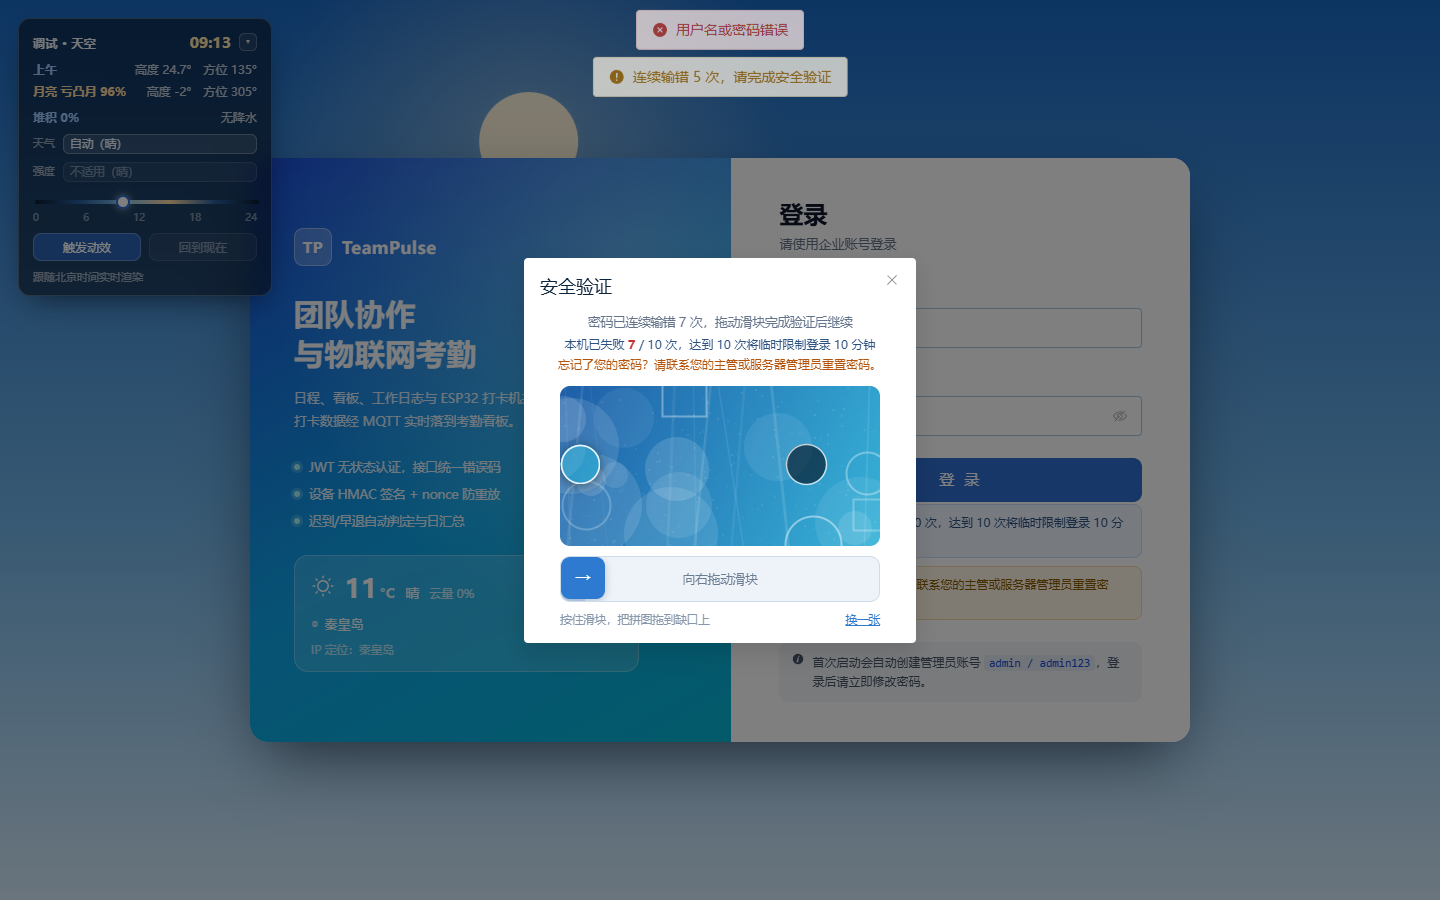
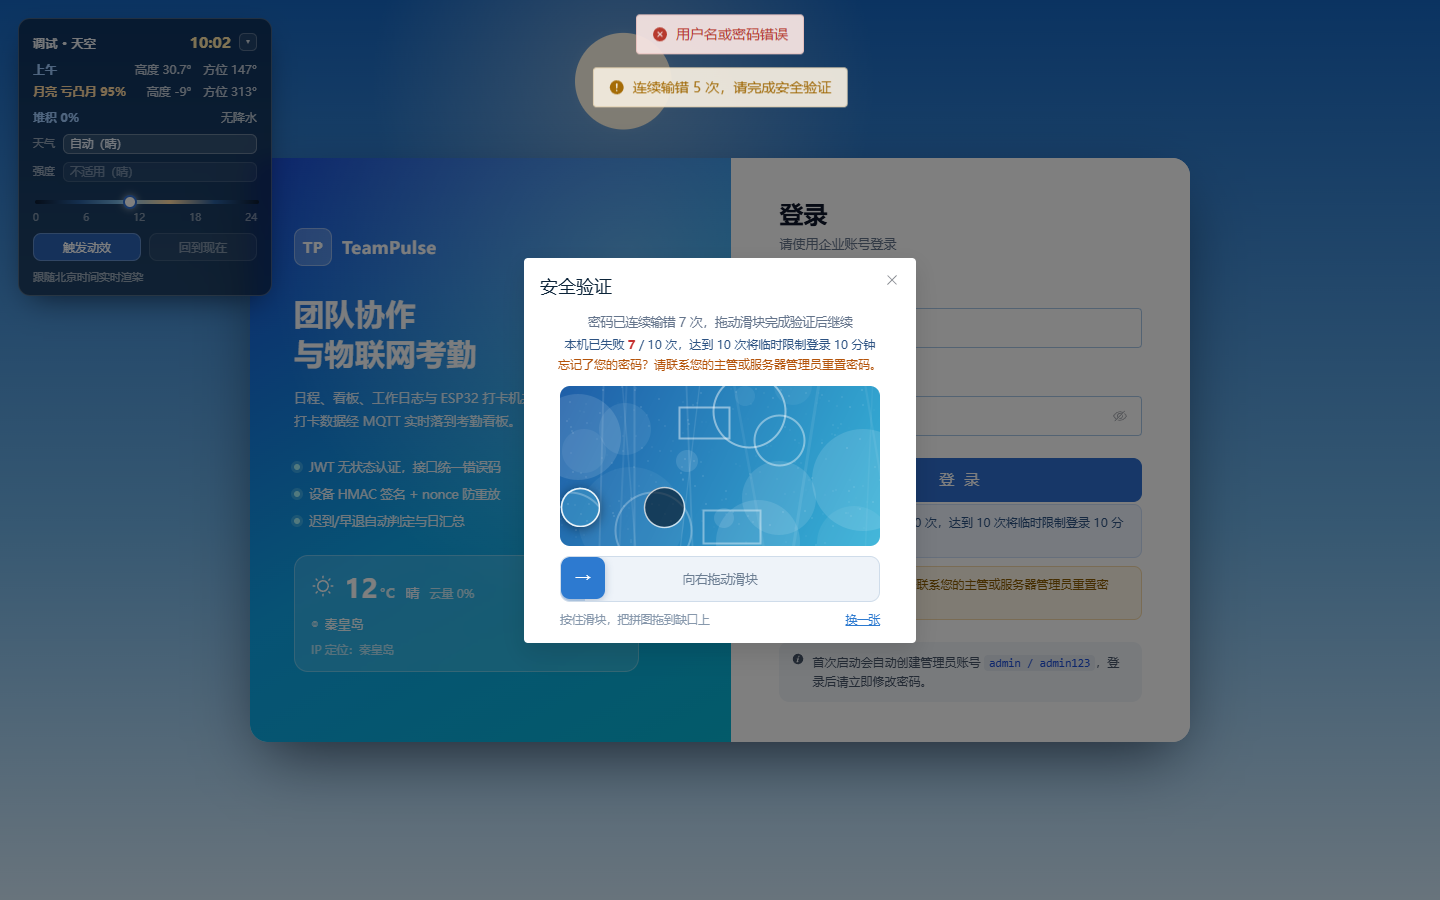
fix(login-security): 空表单点击只在前端计数，服务端永远是 0/10
## 现象
用户报「一直都是 0/10」。查服务器日志发现：
nginx 里只有 **1 次** `POST /api/v1/auth/login`，却有多次 `GET login-guard?username=`；
后端也没有任何「登录失败」记录。

说明用户点的是**空表单**：前端在 `formRef.validate()` 阶段就拦下了，
请求到不了认证接口 → 服务端计数始终为 0 → 界面显示 `本机连续失败 0 / 10 次` 永远不动。

## 修法
新增 `POST /api/v1/public/login-guard/attempt`：
- 前端在表单校验失败时调用它，把「这次点击」登记为一次失败（只影响调用方自己的 IP）
- 返回最新的防护状态，前端直接用来刷新 N/10
- 做了**同源校验**（有 Origin 时必须与 Host 一致），避免被第三方页面借用户的浏览器刷黑名单
- 也顺带解决「表单没填也算一次尝试」的语义一致性问题

## 实测（线上，什么都不填，直接点登录）
```
第 1~4 次：1/10 … 4/10   弹窗=N
第 5 次： 5/10           弹窗=Y
第 6~9 次：6/10 … 9/10   弹窗=Y
第 10 次：进度行消失 → 拉黑 10 分钟，按钮禁用
```
nginx 日志可见每次点击对应一条 `POST /api/v1/public/login-guard/attempt` 200；
后端日志 `IP 触发拉黑: 计数=10 冷却=10分钟`。

## 已知取舍
这个接口是公开的（无法要求登录态），通过 CSRF 让某人自己的 IP 被限制 10 分钟是可能的；
影响面仅限「调用方自己的 IP、10 分钟」，且同源校验挡住了普通的跨站触发。
真正的多实例/严格场景应把计数放 Redis 并加风控。

diff --git a/frontend/src/views/Login.vue b/frontend/src/views/Login.vue
@@ -392,6 +392,16 @@ async function handleLogin() {
   if (!valid) {
     flashLoginError()
     bumpFail()
+    // 表单没填/格式不对时请求不会到认证接口，服务端统计不到，
+    // 这里显式登记一次，保证「N/10」与服务端一致
+    try {
+      guard.value = await loginGuardApi.attempt(form.username.trim() || '')
+      if (guard.value?.blocked) {
+        blockedUntil.value = Date.now() + (guard.value.blockedRemainingSeconds || 600) * 1000
+      }
+    } catch {
+      /* 登记失败不影响登录流程 */
+    }
     if (failCount.value >= CAPTCHA_THRESHOLD) {
       captchaTriggered.value = true
       captchaOpen.value = true

diff --git a/frontend/src/api/index.js b/frontend/src/api/index.js
@@ -161,6 +161,8 @@ export const auditApi = {
 export const loginGuardApi = {
   /** 查询当前访客的失败计数 / 是否被拉黑（只返回自己的状态） */
   status: (username) => http.get('/public/login-guard', { params: { username }, silent: true }),
+  /** 登记一次「点了登录但没真正认证」的尝试（表单未填等），让服务端计数与界面一致 */
+  attempt: (username) => http.post('/public/login-guard/attempt', { username }, { silent: true }),
 }
 
 export const captchaApi = {

diff --git a/backend/src/main/java/com/teampulse/module/captcha/controller/LoginGuardController.java b/backend/src/main/java/com/teampulse/module/captcha/controller/LoginGuardController.java
@@ -1,27 +1,33 @@
 package com.teampulse.module.captcha.controller;
 
 import com.teampulse.common.api.ApiResponse;
+import com.teampulse.common.exception.BizException;
+import com.teampulse.common.exception.ErrorCode;
 import com.teampulse.common.util.ClientIp;
+import com.teampulse.module.captcha.dto.GuardDtos;
 import com.teampulse.module.captcha.service.LoginGuardService;
 import io.swagger.v3.oas.annotations.Operation;
 import io.swagger.v3.oas.annotations.tags.Tag;
 import jakarta.servlet.http.HttpServletRequest;
 import lombok.RequiredArgsConstructor;
 import org.springframework.web.bind.annotation.GetMapping;
+import org.springframework.web.bind.annotation.PostMapping;
+import org.springframework.web.bind.annotation.RequestBody;
 import org.springframework.web.bind.annotation.RequestMapping;
 import org.springframework.web.bind.annotation.RequestParam;
 import org.springframework.web.bind.annotation.RestController;
 
+import java.net.URI;
 import java.util.LinkedHashMap;
 import java.util.Map;
 
 /**
- * 登录防护状态查询（公开）。
+ * 登录防护状态查询与「无效尝试」登记（公开）。
  *
- * <p>只返回**调用方自己**的状态：失败次数、是否需要验证码、是否被拉黑、剩余冷却秒数。
+ * <p>只涉及**调用方自己**的状态：失败次数、是否需要验证码、是否被拉黑、剩余冷却秒数。
  * 不返回别人的计数，也不返回任何 IP 明文——IP 在服务端只以加盐摘要形式存在。
  *
- * <p>存在的意义：让登录页能把「还剩几次到限制」显示出来，
+ * <p>存在的意义：让登录页能把「还剩几次到限制」显示出来。
  * 否则用户只会看到验证码反复弹出，不知道机制在生效。
  */
 @Tag(name = "登录防护状态", description = "查询当前访客的失败计数与冷却状态")
@@ -36,11 +42,53 @@ public class LoginGuardController {
     @GetMapping
     public ApiResponse<Map<String, Object>> status(HttpServletRequest request,
                                                    @RequestParam(required = false) String username) {
+        return ApiResponse.ok(buildStatus(request, username));
+    }
+
+    /**
+     * 登记一次「点了登录但没有真正认证」的尝试。
+     *
+     * <p>表单没填、格式不对时，前端在提交前就拦下了，请求到不了认证接口，
+     * 服务端统计不到。这个接口让两边计数一致，用户点 10 次就真的会被限制。
+     *
+     * <p>只影响调用方自己的 IP，且做了同源校验，避免被第三方页面借用户的浏览器刷黑名单。
+     */
+    @Operation(summary = "登记一次无效登录尝试（表单未填等）")
+    @PostMapping("/attempt")
+    public ApiResponse<Map<String, Object>> attempt(HttpServletRequest request,
+                                                    @RequestBody(required = false) GuardDtos.AttemptRequest body) {
+        verifySameOrigin(request);
+        String ip = ClientIp.resolve(request);
+        String username = body == null || body.username() == null ? "" : body.username().trim();
+        loginGuard.recordFailure(username, ip);
+        return ApiResponse.ok(buildStatus(request, username));
+    }
+
+    // ------------------------------------------------------------------ 内部
+
+    private Map<String, Object> buildStatus(HttpServletRequest request, String username) {
         String ip = ClientIp.resolve(request);
         Map<String, Object> body = new LinkedHashMap<>(loginGuard.snapshot(username == null ? "" : username, ip));
         body.put("ipBlockThreshold", 10);
         body.put("captchaThreshold", 5);
         body.put("cooldownMinutes", 10);
-        return ApiResponse.ok(body);
+        return body;
+    }
+
+    /** 同源校验：有 Origin 时必须与请求 Host 一致；没有 Origin（curl/同源表单）放行 */
+    private void verifySameOrigin(HttpServletRequest request) {
+        String origin = request.getHeader("Origin");
+        if (origin == null || origin.isBlank() || "null".equals(origin)) {
+            return;
+        }
+        try {
+            String originHost = URI.create(origin).getHost();
+            String host = request.getHeader("Host");
+            if (originHost == null || host == null || !host.startsWith(originHost)) {
+                throw BizException.of(ErrorCode.FORBIDDEN, "跨站请求被拒绝");
+            }
+        } catch (IllegalArgumentException e) {
+            throw BizException.of(ErrorCode.BAD_REQUEST, "Origin 不合法");
+        }
     }
 }

diff --git a/backend/src/main/java/com/teampulse/module/captcha/dto/GuardDtos.java b/backend/src/main/java/com/teampulse/module/captcha/dto/GuardDtos.java
@@ -1,0 +1,24 @@
+package com.teampulse.module.captcha.dto;
+
+import io.swagger.v3.oas.annotations.media.Schema;
+
+/**
+ * 登录防护状态查询与"无效尝试"登记用的传输对象。
+ */
+public final class GuardDtos {
+
+    private GuardDtos() {
+    }
+
+    /**
+     * 登记一次"点了登录但没真正认证"的尝试。
+     *
+     * <p>典型场景：账号或密码为空、格式不对——前端在表单校验阶段就拦下了，
+     * 请求不会走到认证接口，服务端因此统计不到。这个接口让两边的计数保持一致。
+     *
+     * @param username 当时填写的用户名（可能为空）
+     */
+    @Schema(name = "GuardAttemptRequest", description = "登记一次无效登录尝试")
+    public record AttemptRequest(String username) {
+    }
+}
